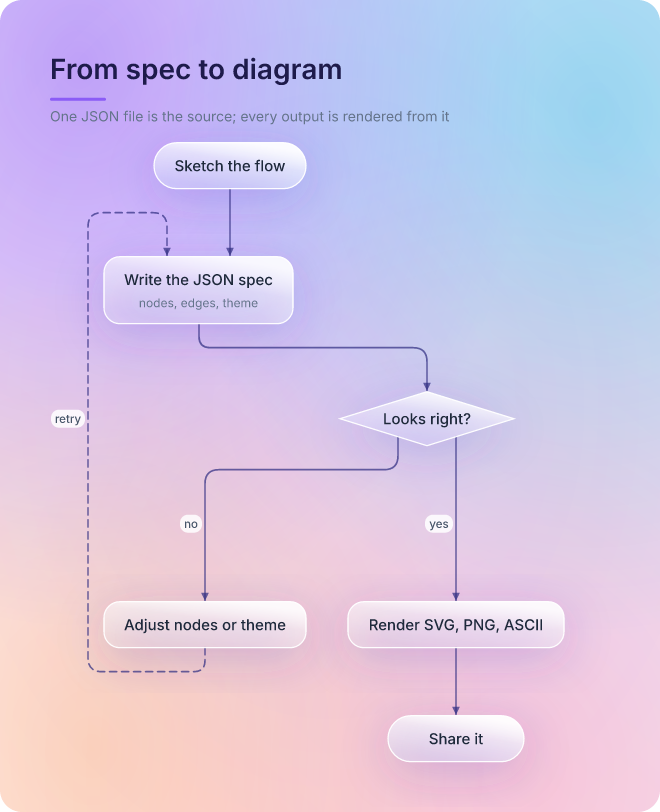
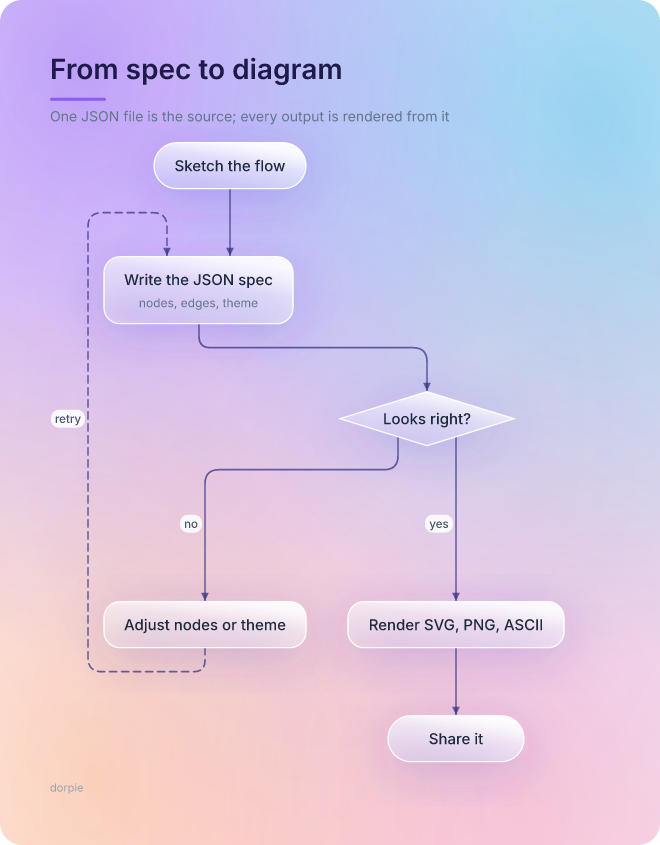
feat!: rename project to Dorpie
Package, CLI, public repository, docs, schema and examples now use the
Dorpie identity. No compatibility alias for the old name is kept.

diff --git a/src/cli.js b/src/cli.js
@@ -13,14 +13,14 @@ import { listThemes, getTheme, ThemeError } from "./themes.js";
 const here = dirname(fileURLToPath(import.meta.url));
 const pkg = JSON.parse(readFileSync(join(here, "..", "package.json"), "utf8"));
 
-const HELP = `diagramcraft ${pkg.version} — beautiful diagrams from a JSON spec
+const HELP = `dorpie ${pkg.version} — beautiful diagrams from a JSON spec
 
 Usage:
-  diagramcraft render <spec.json|-> [options]     render SVG, PNG and/or ASCII
-  diagramcraft validate <spec.json|-> [--json]    check a spec without rendering
-  diagramcraft themes [id] [--json]               list themes or print one theme
-  diagramcraft schema                             print the spec JSON Schema
-  diagramcraft init [file.json] [--force]         write a starter spec
+  dorpie render <spec.json|-> [options]     render SVG, PNG and/or ASCII
+  dorpie validate <spec.json|-> [--json]    check a spec without rendering
+  dorpie themes [id] [--json]               list themes or print one theme
+  dorpie schema                             print the spec JSON Schema
+  dorpie init [file.json] [--force]         write a starter spec
 
 Render options:
   -t, --theme <id|file.json>   override the theme from the spec
@@ -33,8 +33,8 @@ Render options:
   -q, --quiet                  do not print written file paths
 
 Examples:
-  diagramcraft render diagram.json --format svg,png,ascii
-  diagramcraft render diagram.json --theme glass -o out/
+  dorpie render diagram.json --format svg,png,ascii
+  dorpie render diagram.json --theme glass -o out/
 `;
 
 /**
@@ -238,7 +238,7 @@ function themesCommand(args, values) {
       process.stdout.write(`${JSON.stringify(theme, null, 2)}\n`);
       return 0;
     }
-    throw new ThemeError(`cannot print theme ${JSON.stringify(id)}; run "diagramcraft themes" for the list`);
+    throw new ThemeError(`cannot print theme ${JSON.stringify(id)}; run "dorpie themes" for the list`);
   }
   const themes = listThemes();
   if (values.json) {

diff --git a/test/cli.test.js b/test/cli.test.js
@@ -7,13 +7,13 @@ import { tmpdir } from "node:os";
 import { fileURLToPath } from "node:url";
 
 const here = dirname(fileURLToPath(import.meta.url));
-const bin = join(here, "..", "bin", "diagramcraft.js");
+const bin = join(here, "..", "bin", "dorpie.js");
 const example = join(here, "..", "examples", "quickstart.json");
 
 const run = (args) => spawnSync(process.execPath, [bin, ...args], { encoding: "utf8" });
 
 test("render writes requested formats", () => {
-  const dir = mkdtempSync(join(tmpdir(), "diagramcraft-"));
+  const dir = mkdtempSync(join(tmpdir(), "dorpie-"));
   try {
     const result = run(["render", example, "--format", "svg,ascii", "--out", `${dir}/`]);
     assert.equal(result.status, 0, result.stderr);
@@ -40,7 +40,7 @@ test("validate reports structured results", () => {
 });
 
 test("validate exits 2 with readable issues", () => {
-  const dir = mkdtempSync(join(tmpdir(), "diagramcraft-"));
+  const dir = mkdtempSync(join(tmpdir(), "dorpie-"));
   try {
     const file = join(dir, "bad.json");
     writeFileSync(file, JSON.stringify({ nodes: [{ id: "a" }], edges: [{ from: "a", to: "ghost" }] }));
@@ -66,7 +66,7 @@ test("themes lists built-ins and prints one theme", () => {
 });
 
 test("init writes a starter spec", () => {
-  const dir = mkdtempSync(join(tmpdir(), "diagramcraft-"));
+  const dir = mkdtempSync(join(tmpdir(), "dorpie-"));
   try {
     const file = join(dir, "diagram.json");
     const result = run(["init", file]);
@@ -84,7 +84,7 @@ test("init writes a starter spec", () => {
 
 test("version and help work", () => {
   assert.match(run(["--version"]).stdout, /^\d+\.\d+\.\d+/);
-  assert.match(run(["--help"]).stdout, /diagramcraft render/);
+  assert.match(run(["--help"]).stdout, /dorpie render/);
   assert.equal(run(["nonsense"]).status, 2);
 });
 

diff --git a/src/index.js b/src/index.js
@@ -1,4 +1,4 @@
-// DiagramCraft public API. This is the primary interface: render a spec
+// Dorpie public API. This is the primary interface: render a spec
 // object to SVG, PNG and ASCII without touching the CLI.
 // @ts-check
 import { parseSpec } from "./spec.js";

diff --git a/README.md b/README.md
@@ -1,4 +1,4 @@
-<h1 align="center">DiagramCraft</h1>
+<h1 align="center">Dorpie</h1>
 
 <p align="center"><strong>Beautiful diagrams from one JSON file.</strong><br>
 Seven complete visual themes, three output formats, no browser and no GUI.<br>
@@ -8,7 +8,7 @@ Designed for AI agents, pleasant for humans.</p>
   <img alt="Transformer block diagram in the Glass theme" src="./docs/gallery/transformer-block.png" width="560">
 </p>
 
-DiagramCraft turns a plain JSON spec into a finished diagram. The spec is the source of truth: you edit nodes and edges there and re-render, so “add one more block” is a two-line change instead of a redraw. Every theme is a full visual system — its own typography, shapes, line work, background and composition — not the same picture recoloured.
+Dorpie turns a plain JSON spec into a finished diagram. The spec is the source of truth: you edit nodes and edges there and re-render, so “add one more block” is a two-line change instead of a redraw. Every theme is a full visual system — its own typography, shapes, line work, background and composition — not the same picture recoloured.
 
 Everything runs locally in Node. No headless browser, no network calls, no accounts. A typical diagram renders in well under a second.
 
@@ -16,14 +16,14 @@ Everything runs locally in Node. No headless browser, no network calls, no accou
 
 ```sh
 # from the GitHub release (works today)
-npm install -g https://github.com/Krablante/diagramcraft/releases/latest/download/diagramcraft-0.1.1.tgz
+npm install -g https://github.com/Krablante/dorpie/releases/latest/download/dorpie-0.2.0.tgz
 
 # from the repository
-npm install -g github:Krablante/diagramcraft
+npm install -g github:Krablante/dorpie
 
 # once the npm package is published
-npm install -g diagramcraft
-npx diagramcraft --help
+npm install -g dorpie
+npx dorpie --help
 ```
 
 Node 20 or newer. SVG works everywhere; PNG needs no system libraries (fonts are bundled); ASCII needs nothing at all. Publishing to npm is pending a valid automation token; the release tarball is byte-for-byte the npm package.
@@ -31,8 +31,8 @@ Node 20 or newer. SVG works everywhere; PNG needs no system libraries (fonts are
 ## 30-second quickstart
 
 ```sh
-diagramcraft init hello.json      # writes a starter spec
-diagramcraft render hello.json    # writes hello.svg, hello.png, hello.txt
+dorpie init hello.json      # writes a starter spec
+dorpie render hello.json    # writes hello.svg, hello.png, hello.txt
 ```
 
 ```jsonc
@@ -54,21 +54,21 @@ diagramcraft render hello.json    # writes hello.svg, hello.png, hello.txt
 }
 ```
 
-`diagramcraft render spec.json --theme glass --format png --scale 2` and `--out` control the output. `diagramcraft schema` prints the full JSON Schema, `diagramcraft themes` lists every theme, and `diagramcraft themes paper` prints a theme you can edit.
+`dorpie render spec.json --theme glass --format png --scale 2` and `--out` control the output. `dorpie schema` prints the full JSON Schema, `dorpie themes` lists every theme, and `dorpie themes paper` prints a theme you can edit.
 
 ## For AI agents
 
 The whole product is built around one loop:
 
 1. Write or edit the spec (JSON). Never edit the generated files.
-2. `diagramcraft validate spec.json` — structured errors with paths.
-3. `diagramcraft render spec.json --format svg,png,ascii`.
+2. `dorpie validate spec.json` — structured errors with paths.
+3. `dorpie render spec.json --format svg,png,ascii`.
 4. Look at the PNG (vision) or the ASCII, fix the spec, render again.
 
 `docs/agents.md` has a ready-to-paste system prompt, theme selection guidance and common mistakes. The programmatic API is just as small:
 
 ```js
-import { render } from "diagramcraft";
+import { render } from "dorpie";
 
 const { svg, png, ascii } = await render(spec, {
   theme: "glass",                 // built-in id or path to a theme JSON
@@ -87,7 +87,7 @@ Each theme is a complete system: fonts, line weights, node fills, arrowheads, ba
 | ![Midnight](./docs/gallery/theme-midnight.png) **Midnight** — dark navy, soft glows | ![Vivid](./docs/gallery/theme-vivid.png) **Vivid** — colour-coded shapes, indigo accent |
 | ![Blueprint](./docs/gallery/theme-blueprint.png) **Blueprint** — engineering grid, technical lines | ![Node shapes](./docs/gallery/node-shapes.png) **Every shape** — terminal, decision, data, document, database, connector, note, junction |
 
-Themes are data. Copy one with `diagramcraft themes paper > my-theme.json`, change what you want, and render with `--theme my-theme.json`. Small tweaks stay in the spec:
+Themes are data. Copy one with `dorpie themes paper > my-theme.json`, change what you want, and render with `--theme my-theme.json`. Small tweaks stay in the spec:
 
 ```json
 { "theme": "glass", "style": { "fonts": { "title": { "color": "#4338ca" } } } }
@@ -111,13 +111,13 @@ See [docs/themes.md](./docs/themes.md) for the full token reference.
 ## CLI
 
 ```
-diagramcraft render <spec.json|-> [--theme id|file] [--format svg,png,ascii]
+dorpie render <spec.json|-> [--theme id|file] [--format svg,png,ascii]
                                  [--out path|->] [--scale n] [--transparent]
                                  [--system-fonts] [--charset unicode|ascii]
-diagramcraft validate <spec.json|-> [--json]
-diagramcraft themes [id] [--json]
-diagramcraft schema
-diagramcraft init [file.json] [--force]
+dorpie validate <spec.json|-> [--json]
+dorpie themes [id] [--json]
+dorpie schema
+dorpie init [file.json] [--force]
 ```
 
 Render writes files next to the spec by default and prints their paths. `--out -` streams a single format to stdout.

diff --git a/docs/agents.md b/docs/agents.md
@@ -1,4 +1,4 @@
-# Using DiagramCraft from an agent
+# Using Dorpie from an agent
 
 This page is written for AI agents and for people who configure them. Everything here is doable without a GUI, a browser or network access.
 
@@ -6,12 +6,12 @@ This page is written for AI agents and for people who configure them. Everything
 
 ```sh
 # from a GitHub release (until the npm package is published)
-npm install -g https://github.com/Krablante/diagramcraft/releases/latest/download/diagramcraft-0.1.1.tgz
+npm install -g https://github.com/Krablante/dorpie/releases/latest/download/dorpie-0.2.0.tgz
 # or from a checkout
-node /path/to/diagramcraft/bin/diagramcraft.js <command>
+node /path/to/dorpie/bin/dorpie.js <command>
 
-diagramcraft schema             # full JSON Schema of the spec
-diagramcraft themes             # theme ids and descriptions
+dorpie schema             # full JSON Schema of the spec
+dorpie themes             # theme ids and descriptions
 ```
 
 Example specs are in the repository under [`examples/`](../examples) and in the installed package's `examples/` directory.
@@ -21,14 +21,14 @@ Example specs are in the repository under [`examples/`](../examples) and in the 
 1. **Write or edit one JSON spec.** Keep it as the source of truth. If the user asks for a change, edit the spec — never the SVG, PNG or ASCII.
 2. **Validate before rendering.**
    ```sh
-   diagramcraft validate spec.json          # human-readable
-   diagramcraft validate spec.json --json   # machine-readable
+   dorpie validate spec.json          # human-readable
+   dorpie validate spec.json --json   # machine-readable
    ```
    Exit code `2` means the spec is invalid; every problem is reported with its JSON path.
 3. **Render.** SVG is cheap, ASCII is cheapest, PNG is for the user.
    ```sh
-   diagramcraft render spec.json --format svg,ascii --out out/
-   diagramcraft render spec.json --format png --scale 2 --out out/diagram.png
+   dorpie render spec.json --format svg,ascii --out out/
+   dorpie render spec.json --format png --scale 2 --out out/diagram.png
    ```
 4. **Look at the result.** For PNG, open it with a vision tool and check labels, arrows, overlaps and readability. For quick iterations, read the ASCII — it shows structure, branches and labels without rasterising.
 5. **Fix the spec and render again.** Repeat until the diagram reads well; then deliver the requested files.
@@ -36,17 +36,17 @@ Example specs are in the repository under [`examples/`](../examples) and in the 
 ## System prompt snippet
 
 ```
-You can create and edit diagrams with the diagramcraft CLI.
+You can create and edit diagrams with the dorpie CLI.
 - A diagram is one JSON spec; it is the editable source. Never edit generated
   SVG/PNG/ASCII files; edit the spec and re-render.
-- Before rendering, check the spec shape with `diagramcraft schema` and validate
-  with `diagramcraft validate <file>`. Fix every reported problem.
-- Render with `diagramcraft render <file> --format svg,png,ascii`.
+- Before rendering, check the spec shape with `dorpie schema` and validate
+  with `dorpie validate <file>`. Fix every reported problem.
+- Render with `dorpie render <file> --format svg,png,ascii`.
 - Inspect the PNG yourself (vision) or the ASCII before claiming success.
 - Choose a theme by intent: classic (neutral), paper (warm print), glass
   (modern, translucent), midnight (dark), vivid (colourful), blueprint
   (technical), mono (black-and-white print). List them with
-  `diagramcraft themes`.
+  `dorpie themes`.
 - Keep labels short; use `note` for detail; use edge labels yes/no on decisions;
   use groups for phases, not decoration.
 ```
@@ -88,7 +88,7 @@ You can create and edit diagrams with the diagramcraft CLI.
 ## Programmatic use
 
 ```js
-import { render, parseSpec, listThemes } from "diagramcraft";
+import { render, parseSpec, listThemes } from "dorpie";
 
 const spec = parseSpec(JSON.parse(specText));   // throws SpecError with .issues
 const { svg, png, ascii } = await render(spec, {

diff --git a/docs/spec.md b/docs/spec.md
@@ -1,6 +1,6 @@
 # Spec reference
 
-A diagram is one JSON object. It is the only file you edit: SVG, PNG and ASCII are always rendered from it. `diagramcraft schema` prints the machine-readable JSON Schema.
+A diagram is one JSON object. It is the only file you edit: SVG, PNG and ASCII are always rendered from it. `dorpie schema` prints the machine-readable JSON Schema.
 
 ```jsonc
 {
@@ -100,7 +100,7 @@ A group is a visual zone drawn behind its member nodes. It does not influence la
 
 ## Output defaults
 
-`output.formats` lets a spec decide what `diagramcraft render spec.json` produces:
+`output.formats` lets a spec decide what `dorpie render spec.json` produces:
 
 ```json
 { "output": { "formats": ["svg", "ascii"], "charset": "ascii", "transparent": true } }
@@ -129,7 +129,7 @@ Arrays (like gradient stops) are replaced, not merged.
 
 ## Validation
 
-`diagramcraft validate` reports every problem at once with a JSON path, for example:
+`dorpie validate` reports every problem at once with a JSON path, for example:
 
 ```
 spec error: 3 problems

diff --git a/CONTRIBUTING.md b/CONTRIBUTING.md
@@ -6,7 +6,7 @@ Thanks for taking a look. The project is small on purpose; the fastest way in is
 npm install
 npm run check
 npm run gallery          # renders the README images
-node bin/diagramcraft.js render examples/quickstart.json --format svg,png,ascii
+node bin/dorpie.js render examples/quickstart.json --format svg,png,ascii
 ```
 
 ## Where things go
@@ -19,7 +19,7 @@ node bin/diagramcraft.js render examples/quickstart.json --format svg,png,ascii
 
 ## Adding a theme
 
-1. `diagramcraft themes classic > themes/your-theme.json` (or copy any theme).
+1. `dorpie themes classic > themes/your-theme.json` (or copy any theme).
 2. Set a unique `id`, `title`, `description`, `tags` and `order`.
 3. Change typography, shapes, line work, background and accent — a theme should read as a different visual system, not a recolour.
 4. Render a diagram with a decision, a note, a group and an accent node; inspect the PNG.

diff --git a/docs/themes.md b/docs/themes.md
@@ -5,9 +5,9 @@ A theme is a JSON token set: fonts, colours, node paints, strokes, shadows, edge
 Every built-in theme merges over `themes/_base.json`, which holds all defaults. A custom theme only needs to override what it changes.
 
 ```sh
-diagramcraft themes                 # list ids and descriptions
-diagramcraft themes paper > my-theme.json
-diagramcraft render spec.json --theme my-theme.json
+dorpie themes                 # list ids and descriptions
+dorpie themes paper > my-theme.json
+dorpie render spec.json --theme my-theme.json
 ```
 
 Per-spec tweaks use `style`, which is deep-merged over the resolved theme:

diff --git a/CHANGELOG.md b/CHANGELOG.md
@@ -2,6 +2,13 @@
 
 All notable changes to this project are documented here. The format follows [Keep a Changelog](https://keepachangelog.com/en/1.1.0/), and versions follow [Semantic Versioning](https://semver.org/).
 
+## [0.2.0] - 2026-10-04
+
+### Changed
+
+- Renamed the product, package, CLI, repository and registry entry to **Dorpie**. There is no `diagramcraft` compatibility layer, alias or legacy output.
+- The theme gallery examples carry a small `dorpie` footer to show the footer field.
+
 ## [0.1.1] - 2026-10-04
 
 ### Fixed
